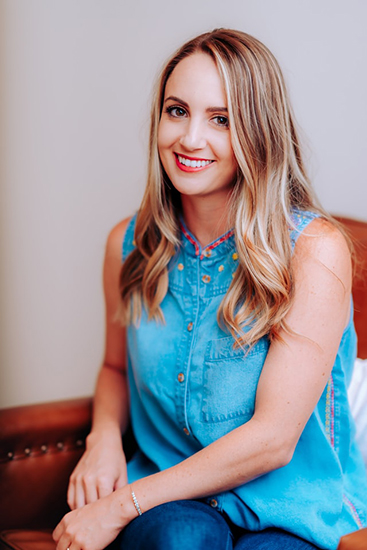
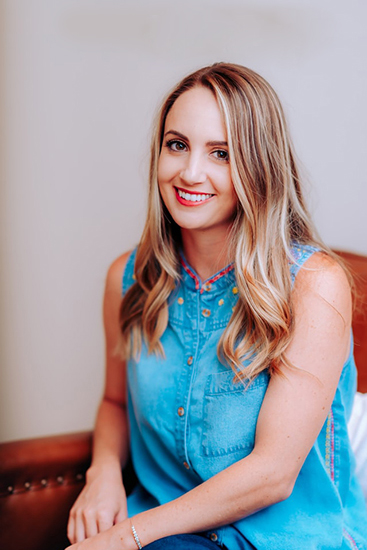
Finiquitando
-Arreglé las fotos en Sobre Nosotras: que todas estén a la misma altura.
-Arreglé el modal: que diga agregado a favoritos en vez de a carrito

diff --git a/tienda.html b/tienda.html
@@ -78,10 +78,10 @@
                             <div class="card text-center">
                                 <div class="card__img">
                                     <div class="icon-action">
-                                        <a href="#" class="fav">
+                                        <a href="#" class="fav"  data-bs-toggle="modal" data-bs-target="#staticBackdrop">
                                             <i class="bi bi-suit-heart"></i>
                                         </a>
-                                        <a  href="" class="cart" data-bs-toggle="modal" data-bs-target="#staticBackdrop">
+                                        <a  href="" class="cart">
                                             <i class="bi bi-cart3"></i>
                                         </a>
                                     </div>
@@ -98,10 +98,10 @@
                             <div class="card text-center">
                                 <div class="card__img">
                                     <div class="icon-action">
-                                        <a href="#" class="fav">
+                                        <a href="#" class="fav"  data-bs-toggle="modal" data-bs-target="#staticBackdrop">
                                             <i class="bi bi-suit-heart"></i>
                                         </a>
-                                        <a  href="" class="cart" data-bs-toggle="modal" data-bs-target="#staticBackdrop">
+                                        <a  href="" class="cart">
                                             <i class="bi bi-cart3"></i>
                                         </a>
                                     </div>
@@ -116,10 +116,10 @@
                             <div class="card text-center">
                                 <div class="card__img">
                                     <div class="icon-action">
-                                        <a href="#" class="fav">
+                                        <a href="#" class="fav"  data-bs-toggle="modal" data-bs-target="#staticBackdrop">
                                             <i class="bi bi-suit-heart"></i>
                                         </a>
-                                        <a  href="" class="cart" data-bs-toggle="modal" data-bs-target="#staticBackdrop">
+                                        <a  href="" class="cart">
                                             <i class="bi bi-cart3"></i>
                                         </a>
                                     </div>
@@ -134,10 +134,10 @@
                             <div class="card text-center">
                                 <div class="card__img">
                                     <div class="icon-action">
-                                        <a href="#" class="fav">
+                                        <a href="#" class="fav"  data-bs-toggle="modal" data-bs-target="#staticBackdrop">
                                             <i class="bi bi-suit-heart"></i>
                                         </a>
-                                        <a  href="" class="cart" data-bs-toggle="modal" data-bs-target="#staticBackdrop">
+                                        <a  href="" class="cart">
                                             <i class="bi bi-cart3"></i>
                                         </a>
                                     </div>
@@ -152,10 +152,10 @@
                             <div class="card text-center">
                                 <div class="card__img">
                                     <div class="icon-action">
-                                        <a href="#" class="fav">
+                                        <a href="#" class="fav"  data-bs-toggle="modal" data-bs-target="#staticBackdrop">
                                             <i class="bi bi-suit-heart"></i>
                                         </a>
-                                        <a  href="" class="cart" data-bs-toggle="modal" data-bs-target="#staticBackdrop">
+                                        <a  href="" class="cart">
                                             <i class="bi bi-cart3"></i>
                                         </a>
                                     </div>
@@ -170,10 +170,10 @@
                             <div class="card text-center">
                                 <div class="card__img">
                                     <div class="icon-action">
-                                        <a href="#" class="fav">
+                                        <a href="#" class="fav"  data-bs-toggle="modal" data-bs-target="#staticBackdrop">
                                             <i class="bi bi-suit-heart"></i>
                                         </a>
-                                        <a  href="" class="cart" data-bs-toggle="modal" data-bs-target="#staticBackdrop">
+                                        <a  href="" class="cart">
                                             <i class="bi bi-cart3"></i>
                                         </a>
                                     </div>
@@ -188,10 +188,10 @@
                             <div class="card text-center">
                                 <div class="card__img">
                                     <div class="icon-action">
-                                        <a href="#" class="fav">
+                                        <a href="#" class="fav"  data-bs-toggle="modal" data-bs-target="#staticBackdrop">
                                             <i class="bi bi-suit-heart"></i>
                                         </a>
-                                        <a  href="" class="cart" data-bs-toggle="modal" data-bs-target="#staticBackdrop">
+                                        <a  href="" class="cart">
                                             <i class="bi bi-cart3"></i>
                                         </a>
                                     </div>
@@ -206,10 +206,10 @@
                             <div class="card text-center">
                                 <div class="card__img">
                                     <div class="icon-action">
-                                        <a href="#" class="fav">
+                                        <a href="#" class="fav"  data-bs-toggle="modal" data-bs-target="#staticBackdrop">
                                             <i class="bi bi-suit-heart"></i>
                                         </a>
-                                        <a  href="" class="cart" data-bs-toggle="modal" data-bs-target="#staticBackdrop">
+                                        <a  href="" class="cart">
                                             <i class="bi bi-cart3"></i>
                                         </a>
                                     </div>
@@ -224,10 +224,10 @@
                             <div class="card text-center">
                                 <div class="card__img">
                                     <div class="icon-action">
-                                        <a href="#" class="fav">
+                                        <a href="#" class="fav"  data-bs-toggle="modal" data-bs-target="#staticBackdrop">
                                             <i class="bi bi-suit-heart"></i>
                                         </a>
-                                        <a  href="" class="cart" data-bs-toggle="modal" data-bs-target="#staticBackdrop">
+                                        <a  href="" class="cart">
                                             <i class="bi bi-cart3"></i>
                                         </a>
                                     </div>
@@ -250,11 +250,11 @@
                         <button type="button" class="btn-close" data-bs-dismiss="modal" aria-label="Close" id="btnCloseModal"></button>
                     </div>
                     <div class="modal-body">
-                        <p>El producto fue añadido correctamente al carrito</p>
+                        <p>El producto fue añadido correctamente a favoritos</p>
                     </div>
                     <div class="modal-footer">
                         <button type="button" class="btn btn-secondary" data-bs-dismiss="modal">Seguir en la tienda</button>
-                        <button type="button" class="btn btn-primary">Ir al carrito</button>
+                        <button type="button" class="btn btn-primary">Ir a favoritos</button>
                     </div>
                 </div>
             </div>

diff --git a/css/style.css b/css/style.css
@@ -1390,7 +1390,7 @@ header{
     padding-top: 100px;
 }
 
-.mapa-tienda .info__links, .rrss-icon{
+.mapa-tienda .contacto__info, .rrss-icon{
     display: none;
 }
 
@@ -1514,7 +1514,7 @@ header{
     }
 
 
-    .mapa-tienda .info__links{
+    .mapa-tienda .contacto__info{
         display: block;
         margin-top: 2em;
     }
@@ -1534,7 +1534,7 @@ header{
         margin-top: 0;
     }
 
-    .info__links li:first-child{
+    .contacto__info li:first-child{
         font-size: 1.5rem;
         text-transform: uppercase;
         font-weight: 500;
@@ -1542,7 +1542,7 @@ header{
         margin-bottom: .5em;
     }
 
-    .info__links li a{
+    .contacto__info li a{
         color: #000;
     }
 
@@ -1600,8 +1600,8 @@ header{
     display: flex;
         justify-content: center;
         align-items: center;
-    border: solid 1px #d3d3d3;
-    position: relative;
+    border: solid 1px #d3d3d3;  
+    cursor: pointer;
 }
 
 .favoritos .favoritos__lista .container .row .card__fav img{    

diff --git a/sobrenosotros.html b/sobrenosotros.html
@@ -131,7 +131,7 @@
                                 <h3>Eco-Friendly</h3>
                                 <p>Uno de nuestros principios es respetar la preservación del medio ambiente, la valorización de las culturas y el artesanado local.
                                     Ofrecer productos sin parabenos, sin colorantes, sin phénoxyéthanol, sin aceites minerales y sin fatalatos.
-                                    Utilizar envoltorios recicables y evitar los sobreenvoltorios inútiles.
+                                    Utilizar envoltorios reciclables y evitar los sobreenvoltorios inútiles.
                                     No realizar test con los animales.</p>    
                             </div>
                             <div class="cards">

diff --git a/contacto.html b/contacto.html
@@ -51,7 +51,7 @@
             <section class="contacto">
                     <div class="mapa-tienda">
                         <iframe src="https://www.google.com/maps/embed?pb=!1m14!1m12!1m3!1d13089.843077151929!2d-56.15748180799221!3d-34.89488468645816!2m3!1f0!2f0!3f0!3m2!1i1024!2i768!4f13.1!5e0!3m2!1ses-419!2suy!4v1613482371973!5m2!1ses-419!2suy" width="100%" height="250" frameborder="0" style="border:0;" allowfullscreen="" aria-hidden="false" tabindex="0"></iframe>
-                        <ul class="info__links">
+                        <ul class="contacto__info">
                             <li>Showroom</li>
                             <li>
                                 <a href="#">
